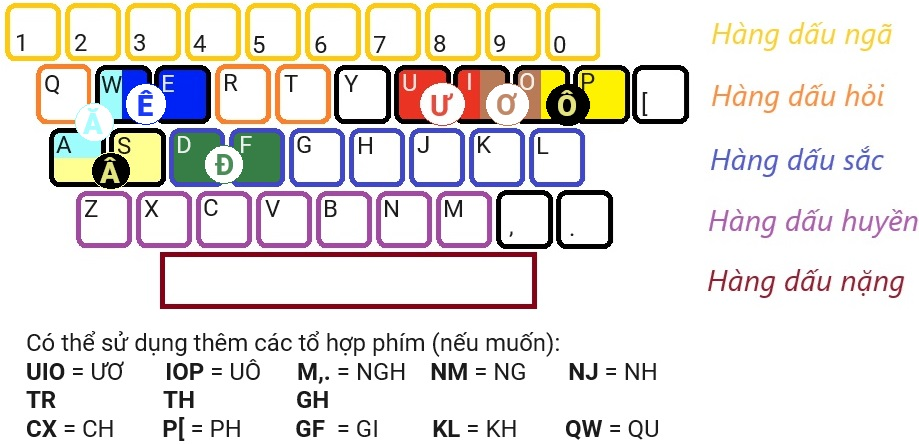
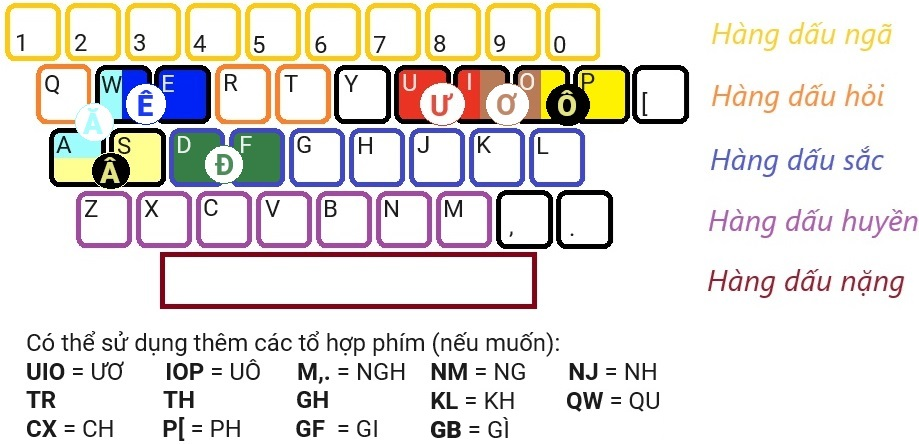
Add "GB" combination for word "gì"

Changed region(s): [[0.6094, 0.8784, 0.7312, 0.9955], [0.457, 0.8784, 0.5789, 0.9955]]

diff --git a/vietk2k.js b/vietk2k.js
@@ -1,6 +1,6 @@
 /**
  * K2K (Key Combinations II) - A Vietnamese input method by Le Phuoc Loc
- * K2K Input Editor v1.0 - K2K Implementation for TextBox/TextArea elements in browsers
+ * K2K Input Editor v1.1 - K2K Implementation for TextBox/TextArea elements in browsers
  * Created on Aug-16-2024 by Le Phuoc Loc: https://github.com/locple/VietK2K
  */
 
@@ -10,12 +10,12 @@ function VietK2K() {		// Class VietK2K
         65: false,  83: false,  87: false,  69: false,				// A,S,W,E combinations for a, â, ă, e, ê vowels
         89: false,  85: false,  73: false,  79: false, 80: false,	// Y,U,I,O,P combinations for u, ư, o, ơ, ô vowels
         68: false,  70: false,										// D,F, combinations for đ consonant
-        67: false,  88: false,  71: false,  72: false,				// C,X, G,H, F,G combinations for ch,gh,gi consonants
+        67: false,  88: false,  71: false,  72: false, 66: false,	// C,X, G,H, F,G, G,B combinations for ch,gh,gi,gì consonants
         75: false,  76: false,  78: false,  77: false, 74: false,	// K,L, N,M, N,J combinations for kh,ng,nh consonants
         188: false, 190: false, 219: false,							// M,'.',',', P,[ combinations for ngh,ph consonants
         81: false,  84: false,  82: false,							// Q,W, T,R,H combinations for qu,tr,th consonants
         32: false,													// with Space for dot tone
-        90: false,  86: false,  66: false,							// with one key of Z,X,C,V,B,N,M for grave tone
+        90: false,  86: false,										// with one key of Z,X,C,V,B,N,M for grave tone
         															// with one key of D,F,G,H,J,K,L for acute tone
         															// with one key of Q,R,T for question tone
         48: false,  49: false,  50: false,  51: false, 52: false,	// with one key of 0,1,2,3,4,
@@ -46,7 +46,6 @@ VietK2K.Consonants = [	// All Vietnamese consonant/double consonant letters to r
         ["đ", "Đ", "Đ"],
         ["ch", "Ch", "CH"],
         ["gh", "Gh", "GH"],
-        ["gi", "Gi", "GI"],
         ["kh", "Kh", "KH"],
         ["ng", "Ng", "NG"],
         ["nh", "Nh", "NH"],
@@ -54,7 +53,9 @@ VietK2K.Consonants = [	// All Vietnamese consonant/double consonant letters to r
         ["ph", "Ph", "PH"],
         ["qu", "Qu", "QU"],
         ["tr", "Tr", "TR"],
-        ["th", "Th", "TH"]
+        ["th", "Th", "TH"],
+        ["gi", "Gi", "GI"],
+        ["gì", "Gì", "GÌ"]
       ];
 
 VietK2K.prototype.setMode = function(mode) {		// Enable or disable K2K method
@@ -258,18 +259,19 @@ VietK2K.prototype.getVowelIndex = function() {
 };
 
 VietK2K.prototype.getConsonantIndex = function() {
-   if (this.k2k[68]  &&  this.k2k[70])						return 0;	// đ	<= df | fd
-   if (this.k2k[67]  &&  this.k2k[88])						return 1;	// ch	<= cx | xc
-   if (this.k2k[71]  &&  this.k2k[72])						return 2;	// gh	<= gh | hg
-   if (this.k2k[70]  &&  this.k2k[71])						return 3;	// gi	<= fg | gf
-   if (this.k2k[75]  &&  this.k2k[76])						return 4;	// kh	<= kl | lk
-   if (this.k2k[78]  &&  this.k2k[77])						return 5;	// ng	<= nm | mn
-   if (this.k2k[78]  &&  this.k2k[74])						return 6;	// nh	<= nj | jn
-   if (this.k2k[77]  &&  this.k2k[188]  &&  this.k2k[190])	return 7;	// ngh	<= m,. | *
-   if (this.k2k[80]  &&  this.k2k[219])						return 8;	// ph	<= p[ | [p
-   if (this.k2k[81]  &&  this.k2k[87])						return 9;	// qu	<= qw | wq
-   if (this.k2k[84]  &&  this.k2k[82])						return 10;	// tr	<= tr | rt
-   if (this.k2k[84]  &&  this.k2k[72])						return 11;	// th	<= th | ht
+    if (this.k2k[68]  &&  this.k2k[70])						return 0;	// đ	<= df | fd
+    if (this.k2k[67]  &&  this.k2k[88])						return 1;	// ch	<= cx | xc
+    if (this.k2k[71]  &&  this.k2k[72])						return 2;	// gh	<= gh | hg
+    if (this.k2k[75]  &&  this.k2k[76])						return 3;	// kh	<= kl | lk
+    if (this.k2k[78]  &&  this.k2k[77])						return 4;	// ng	<= nm | mn
+    if (this.k2k[78]  &&  this.k2k[74])						return 5;	// nh	<= nj | jn
+    if (this.k2k[77]  &&  this.k2k[188]  &&  this.k2k[190])	return 6;	// ngh	<= m,. | *
+    if (this.k2k[80]  &&  this.k2k[219])					return 7;	// ph	<= p[ | [p
+    if (this.k2k[81]  &&  this.k2k[87])						return 8;	// qu	<= qw | wq
+    if (this.k2k[84]  &&  this.k2k[82])						return 9;	// tr	<= tr | rt
+    if (this.k2k[84]  &&  this.k2k[72])						return 10;	// th	<= th | ht
+    if (this.k2k[71]  &&  this.k2k[70])						return 11;	// gi	<= gf | fg
+    if (this.k2k[71]  &&  this.k2k[66])						return 12;	// gì	<= gb | bg
 
     return -1;	// no consonant detected
 }
